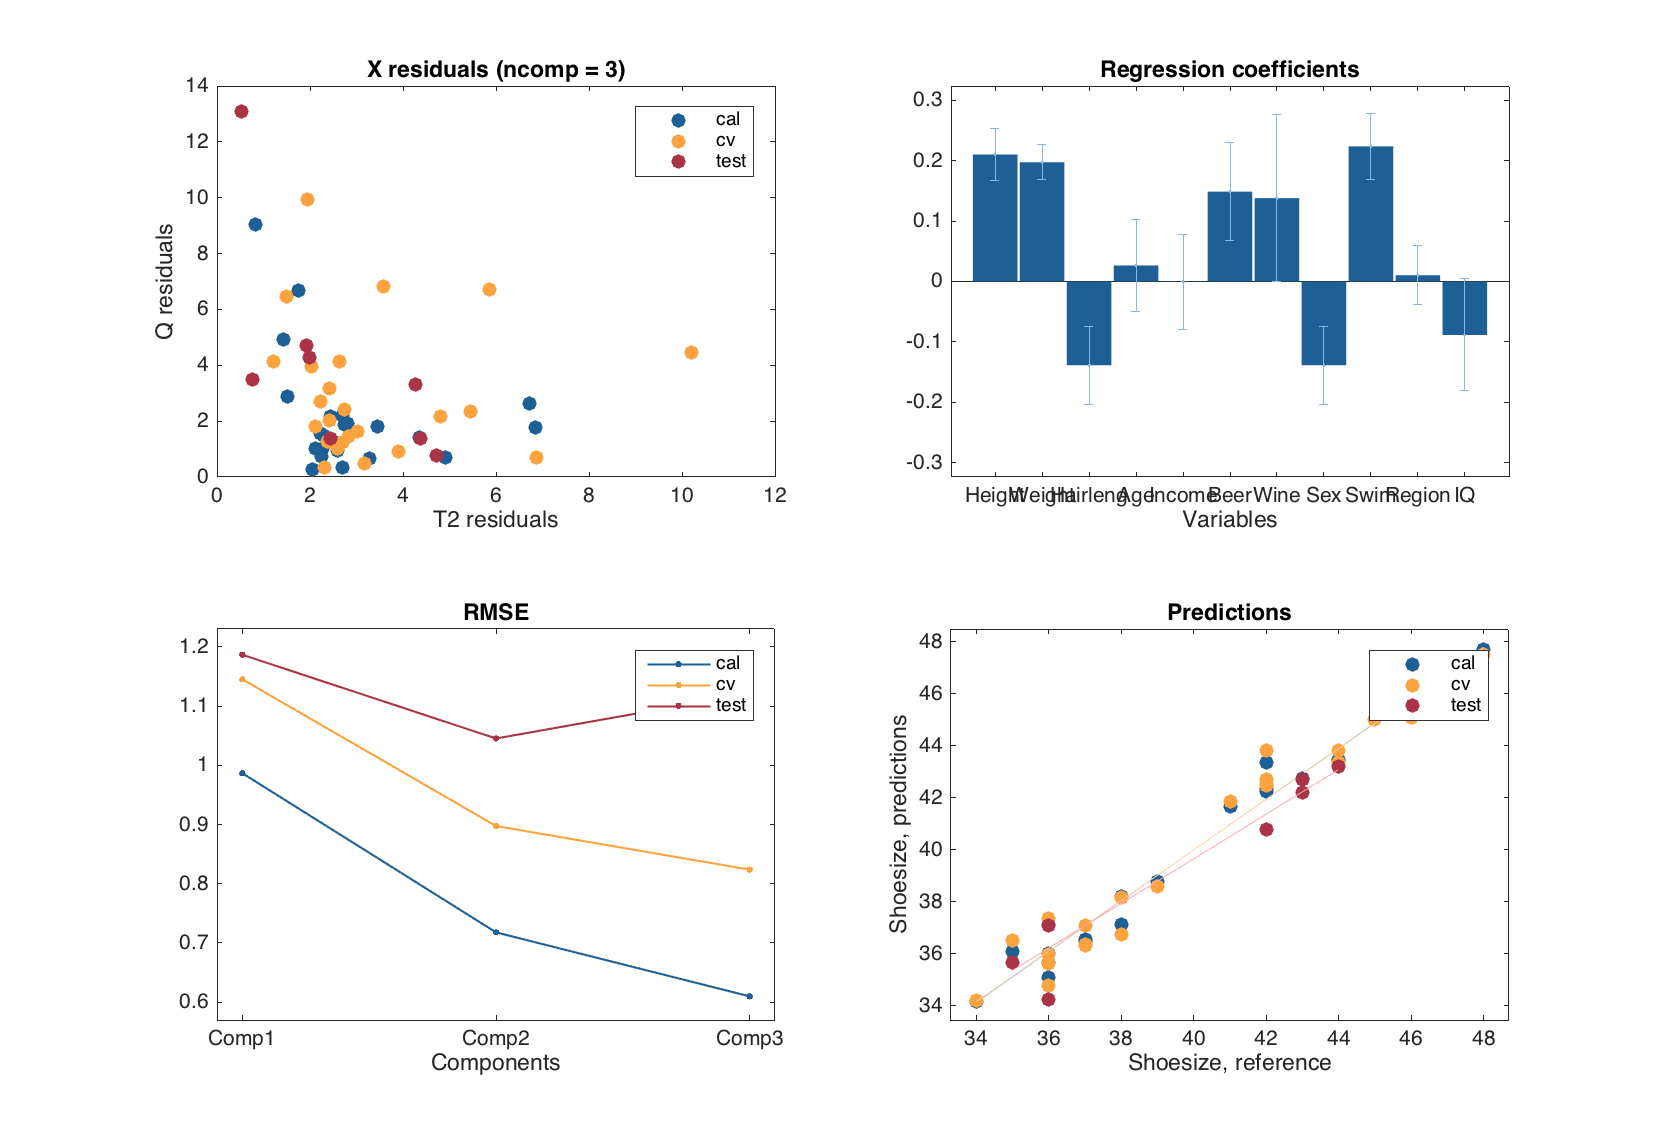
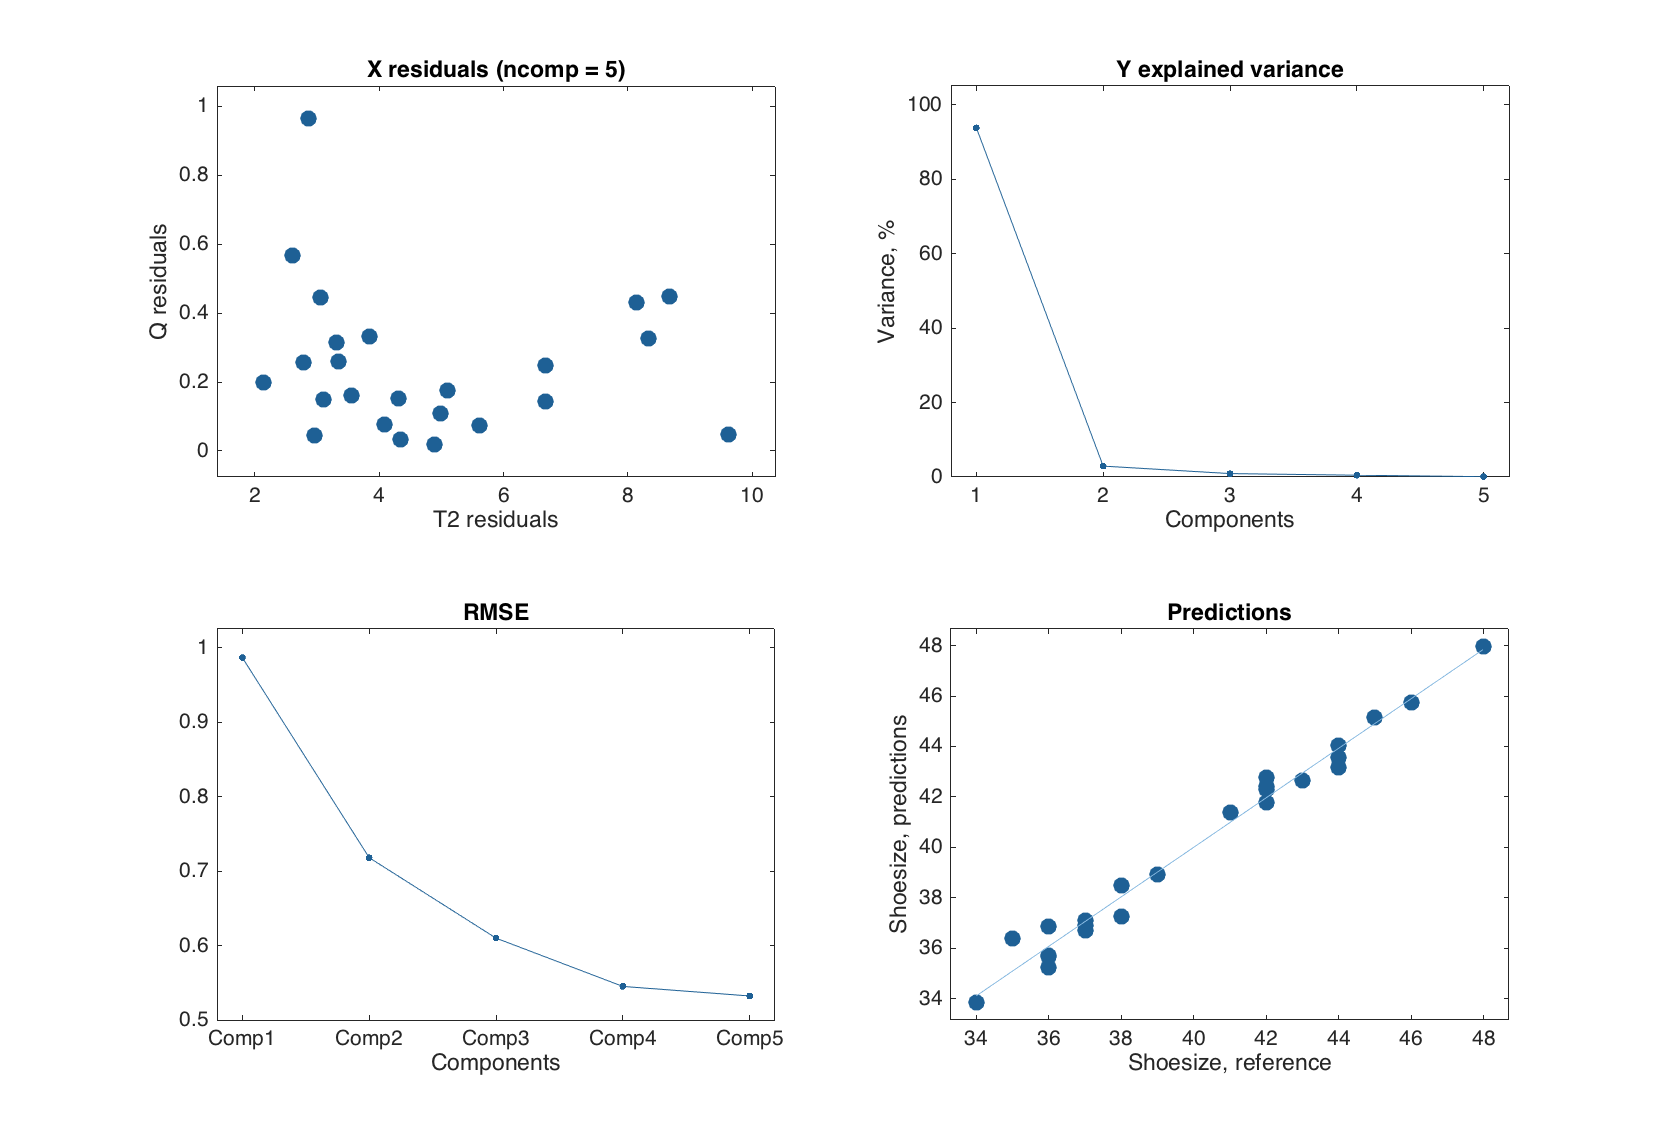
updates for figures

diff --git a/chapter6/figures.m b/chapter6/figures.m
@@ -79,12 +79,25 @@ plotpredictions(m, 'Shoesize', 2, 'Marker', 's', 'Color', 'r')
 
 printplot(gcf, sprintf('%s/fig%d.png', figfolder, nfig), [figw * 2, figh * 2], 'png', '-r150')
 
+nfig = 3;
+
+figure
+subplot 221
+plotxyscores(m.calres, 1, 'Labels', 'names')
+subplot 222
+plotxyscores(m.calres, 2, 'Labels', 'names')
+subplot 223
+plotxyscores(m.calres, 3, 'Labels', 'names')
+subplot 224
+plotxyscores(m.calres, 4, 'Labels', 'names')
+
+printplot(gcf, sprintf('%s/fig%d.png', figfolder, nfig), [figw * 2, figh * 2], 'png', '-r150')
 
 %% results (3)
 
 summary(m.calres)
 
-nfig = 3;
+nfig = 4;
 
 figure
 plot(m.calres)
@@ -98,7 +111,7 @@ printplot(gcf, sprintf('%s/fig%d.png', figfolder, nfig), [figw * 2, figh * 2], '
 m = mdapls(Xc, yc, 3, 'Scale', 'on', 'CV', {'full'}, 'TestSet', {Xt, yt});
 summary(m)
 
-nfig = 4;
+nfig = 5;
 
 figure
 plot(m)
@@ -107,7 +120,7 @@ printplot(gcf, sprintf('%s/fig%d.png', figfolder, nfig), [figw * 2, figh * 2], '
 
 %% model (2)
 
-nfig = 5;
+nfig = 6;
 
 figure
 
@@ -131,7 +144,7 @@ printplot(gcf, sprintf('%s/fig%d.png', figfolder, nfig), [figw * 2, figh * 2], '
 
 %% model (3)
 
-nfig = 6;
+nfig = 7;
 
 figure
 subplot 221
